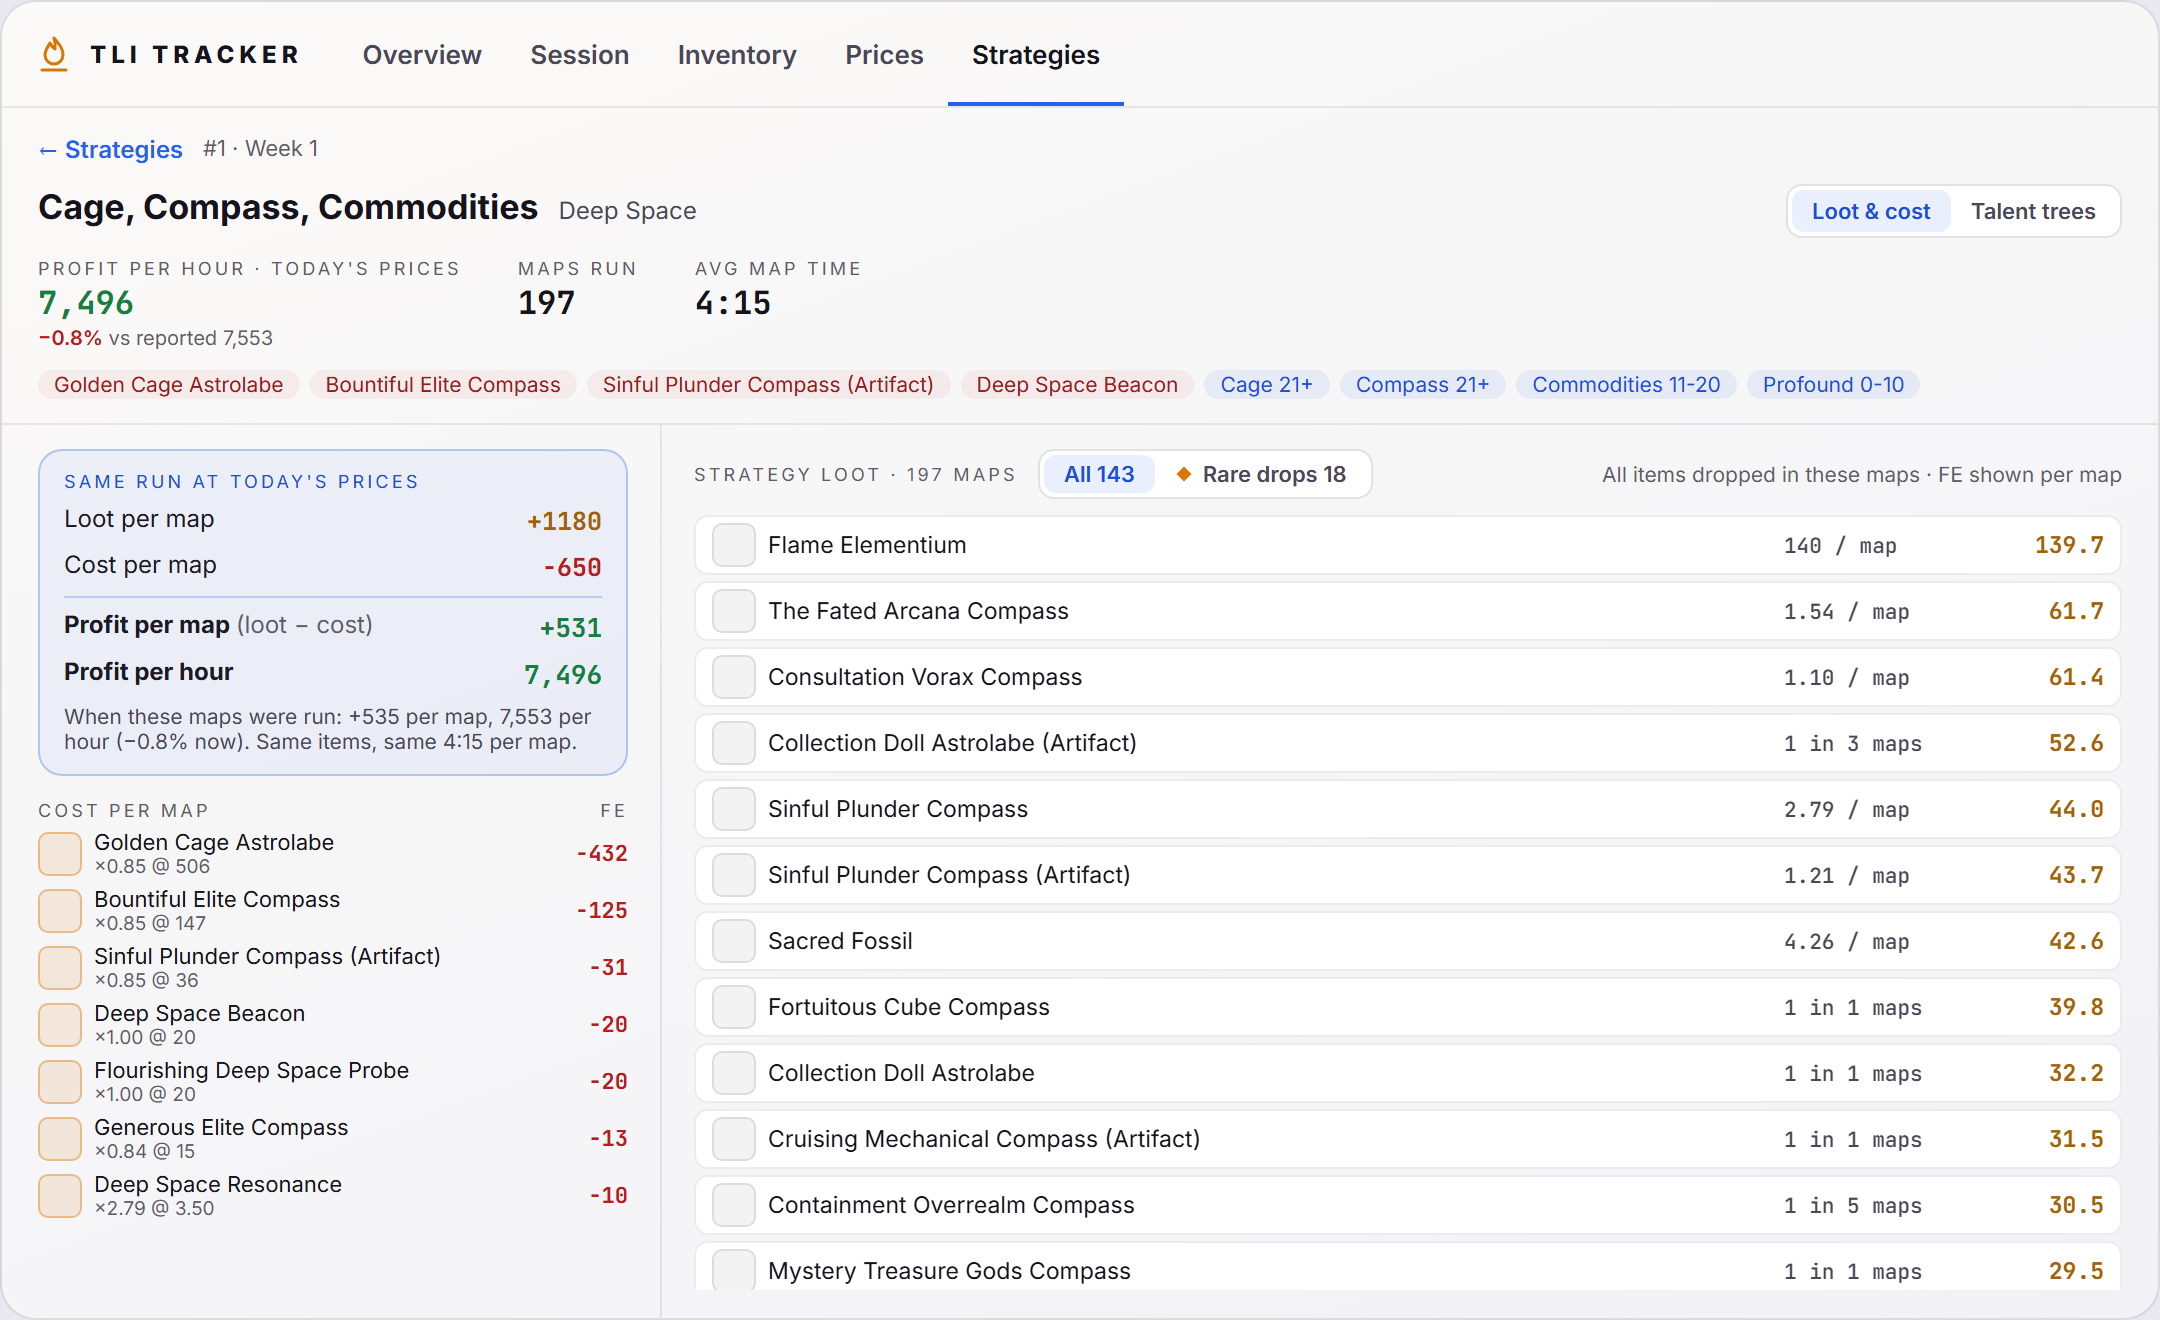
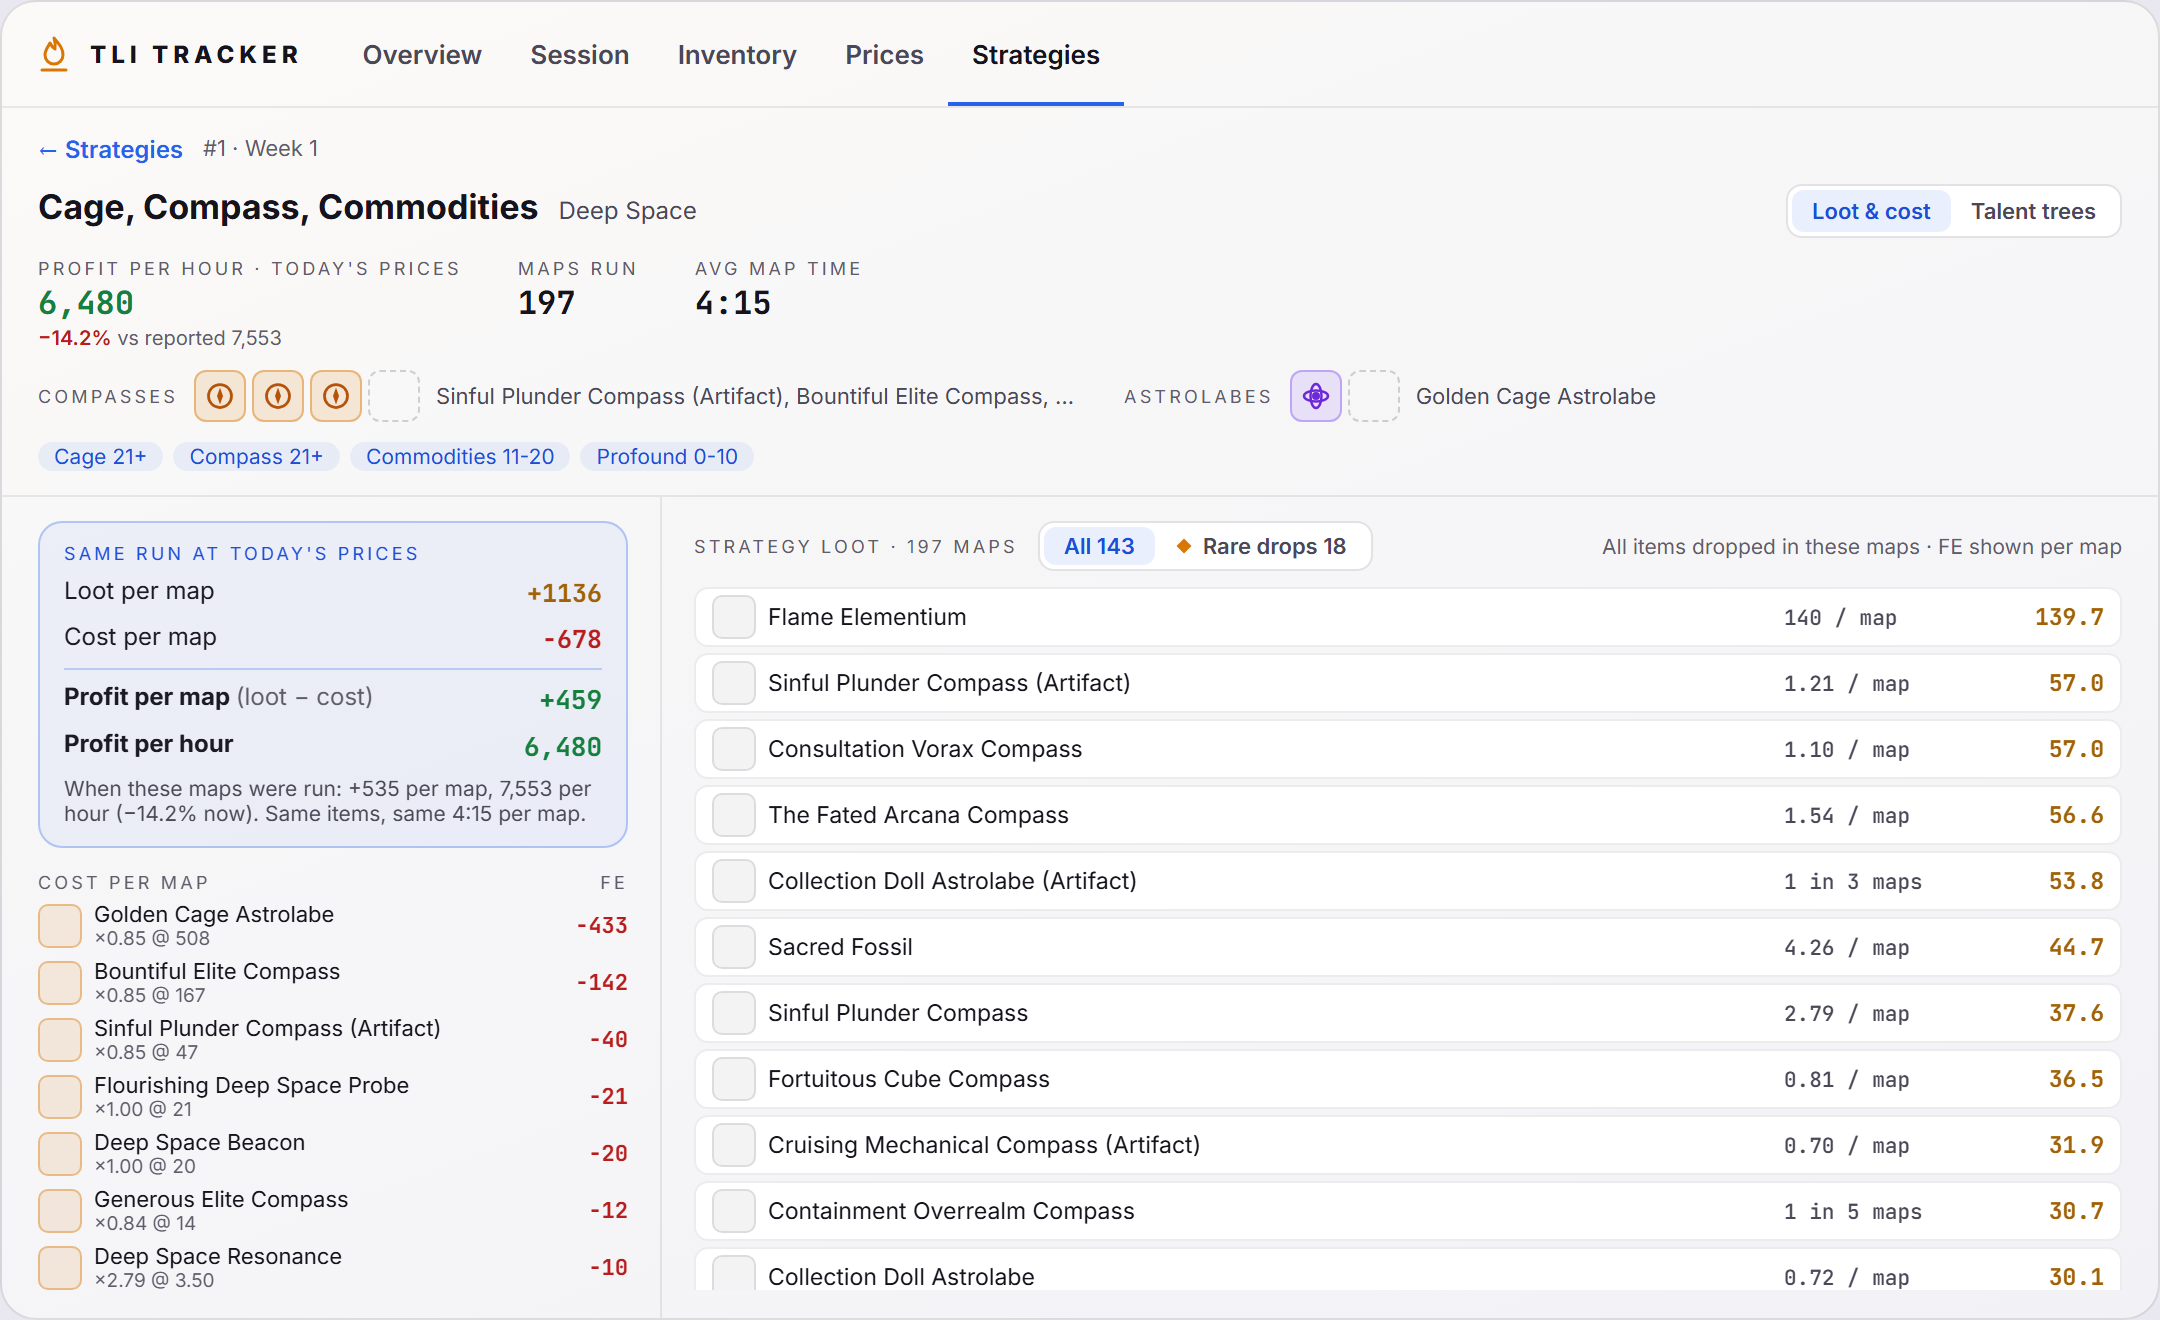
perf(dashboard): show compasses in strategy detail instead of the list
The ladder filled compass and astrolabe slots for every row, which cost
one detail request per strategy on each page (up to 10 more requests on
a server that already sheds load). The list now makes one request per
page; the strategy detail shows the compasses (4 slots) and astrolabes
(2 slots) used in at least half of its maps, with icons and names, in
place of the item tag chips.

Drop rates from 0.5 per map up read "0.80 / map" instead of "1 in 1 maps".
Design boards and doc images are updated to match.

diff --git a/src/components/dashboard/StrategiesTab.vue b/src/components/dashboard/StrategiesTab.vue
@@ -174,16 +174,6 @@
             <span class="meta">
               <span class="tag">{{ r.area }}</span>
               <span v-if="r.time && r.time !== r.area" class="tag time">{{ r.time }}</span>
-              <span class="slots" :aria-label="r.slotsLabel">
-                <span
-                  v-for="(s, i) in r.slots"
-                  :key="i"
-                  :class="['slot', s.kind, { empty: !s.id, gap: i === COMPASS_SLOTS }]"
-                  :title="s.name"
-                >
-                  <img v-if="s.id" :src="getIcon(s.id)" alt="" @error="($event.target as HTMLImageElement).style.visibility = 'hidden'" />
-                </span>
-              </span>
             </span>
           </span>
           <span class="rate">
@@ -211,7 +201,7 @@ import { fmtAgo, fmtDur, fmtValue } from './format';
 import StrategyDetail from './StrategyDetail.vue';
 import { PROFOUND, TREES } from './strategies/trees';
 import {
-  areaName, strategyApi, fetchDetail, itemInfo, itemKind, stageName, timeName, treeList, treeName,
+  areaName, strategyApi, itemInfo, itemKind, stageName, timeName, treeList, treeName,
   type FilterItem, type LeaderboardData, type Query, type StageOptions, type StrategyRow, type TagsData,
 } from './strategies/api';
 
@@ -270,7 +260,6 @@ const fetchedAt = ref(0);
 const now = ref(Date.now());
 const selected = ref<StrategyRow | null>(null);
 const itemNames = ref(new Map<string, string>());
-const kits = reactive(new Map<string, { id: string; name: string; kind: 'compass' | 'astrolabe' }[]>());
 
 const mechIn = computed(() => Object.keys(mechPicks).filter(k => mechPicks[k] === 'in'));
 
@@ -351,7 +340,6 @@ async function load() {
     stale.value = b.stale || t.stale;
     fetchedAt.value = Math.min(b.fetchedAt, t.fetchedAt);
     void nameCostItems(t.data);
-    void loadKits(visibleItems.value, stage.value);
   } catch (e) {
     if (gen !== generation) return;
     error.value = String(e);
@@ -387,35 +375,6 @@ async function nameCostItems(t: TagsData) {
   itemNames.value = m;
 }
 
-// Compasses and astrolabes a strategy uses in at least half of its maps.
-async function loadKits(items: StrategyRow[], st: string) {
-  for (const row of items) {
-    if (kits.has(`${st}:${row.key}`)) continue;
-    const d = await fetchDetail(st, row.key);
-    if (!d || st !== stage.value) continue;
-    const info = await itemInfo(d.items.cost.map(c => c.id));
-    const used = d.items.cost
-      .filter(c => c.quantity >= d.strategy.count / 2)
-      .sort((a, b) => b.quantity - a.quantity)
-      .map(c => {
-        const name = info.get(c.id)?.name || `Item ${c.id}`;
-        return { id: c.id, name, kind: itemKind(name) };
-      });
-    kits.set(`${st}:${row.key}`, used.filter((u): u is { id: string; name: string; kind: 'compass' | 'astrolabe' } => u.kind !== 'other'));
-  }
-}
-
-function slotsFor(key: string) {
-  const kit = kits.get(`${stage.value}:${key}`);
-  const fill = (kind: 'compass' | 'astrolabe', n: number) => {
-    const got = (kit ?? []).filter(k => k.kind === kind).slice(0, n);
-    return Array.from({ length: n }, (_, i) => got[i]
-      ? { ...got[i] }
-      : { id: '', name: kit ? `No ${kind}` : 'Loading…', kind });
-  };
-  return [...fill('compass', COMPASS_SLOTS), ...fill('astrolabe', ASTROLABE_SLOTS)];
-}
-
 const visibleItems = computed(() => {
   const items = board.value?.items ?? [];
   return localPages.value ? items.slice((page.value - 1) * PAGE_SIZE, page.value * PAGE_SIZE) : items;
@@ -425,8 +384,6 @@ const rows = computed(() => {
   const items = visibleItems.value;
   const top = Math.max(1, ...items.map(r => r.avgEfficiency));
   return items.map(r => {
-    const slots = slotsFor(r.key);
-    const used = slots.filter(s => s.id).map(s => s.name);
     return {
       raw: r,
       key: r.key,
@@ -434,8 +391,6 @@ const rows = computed(() => {
       title: treeList(r.talentLabel) || 'No main talent',
       area: areaName(r.mapLabel),
       time: timeName(r.timeLabel),
-      slots,
-      slotsLabel: used.length ? used.join(', ') : 'No compasses or astrolabes',
       perHour: fmtValue(r.avgEfficiency * 60),
       rateBar: Math.round((r.avgEfficiency / top) * 100) + '%',
       maps: r.count,
@@ -557,7 +512,6 @@ watch([stage, timemark, sort, minCount, () => JSON.stringify(picks), () => JSON.
 watch(page, () => {
   if (!localPages.value) return scheduleLoad();
   shownFor.value = query.value;
-  void loadKits(visibleItems.value, stage.value);
 });
 
 let ticker: ReturnType<typeof setInterval> | null = null;
@@ -638,13 +592,6 @@ onUnmounted(() => {
 .st-row .meta { display: flex; align-items: center; gap: 4px; flex-wrap: wrap; }
 .st-row .tag { font-size: 10px; padding: 0 6px; border-radius: 999px; background: rgba(217,119,6,0.12); color: var(--gold); }
 .st-row .tag.time { background: var(--chip); color: var(--muted); }
-.slots { display: flex; gap: 3px; margin-left: 4px; }
-.slot { width: 20px; height: 20px; box-sizing: border-box; border-radius: 5px; display: flex; align-items: center; justify-content: center; overflow: hidden; }
-.slot img { width: 16px; height: 16px; object-fit: contain; }
-.slot.compass { background: rgba(217,119,6,0.14); border: 1px solid rgba(217,119,6,0.45); }
-.slot.astrolabe { background: rgba(139,92,246,0.14); border: 1px solid rgba(139,92,246,0.45); }
-.slot.empty { background: transparent; border: 1px dashed var(--chip-border); }
-.slot.gap { margin-left: 5px; }
 .st-row .rate { display: flex; align-items: center; gap: 6px; }
 .st-row .track { flex: 1; height: 5px; border-radius: 3px; background: var(--chip-border); overflow: hidden; }
 .st-row .track span { display: block; height: 100%; background: var(--accent); }

diff --git a/src/components/dashboard/StrategyDetail.vue b/src/components/dashboard/StrategyDetail.vue
@@ -30,6 +30,17 @@
           <div class="mono val">{{ fmtDur(row.avgDuration / 1000) }}</div>
         </div>
       </div>
+      <div class="kit">
+        <div v-for="g in kitGroups" :key="g.kind" class="kit-group">
+          <span class="dash-label">{{ g.title }}</span>
+          <span class="slots" :aria-label="g.label">
+            <span v-for="(s, i) in g.slots" :key="i" :class="['slot', g.kind, { empty: !s.id }]" :title="s.name">
+              <img v-if="s.id" :src="getIcon(s.id)" alt="" @error="($event.target as HTMLImageElement).style.visibility = 'hidden'" />
+            </span>
+          </span>
+          <span class="kit-names">{{ g.label }}</span>
+        </div>
+      </div>
       <div class="tags">
         <span v-for="t in tagChips" :key="t.kind + t.label" :class="['tag', t.kind]">{{ t.label }}</span>
       </div>
@@ -106,7 +117,7 @@ import { getIcon } from '../../utils/assets';
 import { fmtDur, fmtFE, fmtPrice } from './format';
 import TalentTrees from './TalentTrees.vue';
 import {
-  areaName, fetchDetail, itemInfo, stageName, timeName, treeList, treeName,
+  areaName, fetchDetail, itemInfo, itemKind, stageName, timeName, treeList, treeName,
   type DetailData, type ItemInfo, type ItemQty, type StrategyRow,
 } from './strategies/api';
 
@@ -114,6 +125,8 @@ const props = defineProps<{ row: StrategyRow; stage: string }>();
 defineEmits(['back']);
 
 const LOOT_ROWS = 14;
+// A map takes up to 4 compasses and 2 astrolabes.
+const KIT_SLOTS = { compass: 4, astrolabe: 2 } as const;
 // A "rare" drop shows up in fewer than one of five maps but is still worth something per map.
 const RARE_SHARE = 0.2;
 const RARE_MIN_VALUE = 0.5;
@@ -158,7 +171,7 @@ function perMapRows(list: ItemQty[]) {
       qty: r.perMap >= 10 ? r.perMap.toFixed(0) : r.perMap.toFixed(2),
       price: r.price ? fmtPrice(r.price) : 'no price',
       value: r.total.toFixed(1),
-      rate: r.perMap < 1 ? `1 in ${Math.round(1 / r.perMap)} maps` : `${r.perMap >= 10 ? r.perMap.toFixed(0) : r.perMap.toFixed(2)} / map`,
+      rate: r.perMap < 0.5 ? `1 in ${Math.round(1 / r.perMap)} maps` : `${r.perMap >= 10 ? r.perMap.toFixed(0) : r.perMap.toFixed(2)} / map`,
     }));
 }
 
@@ -190,14 +203,34 @@ function fmtChange(pct: number): string {
   return `${pct >= 0 ? '+' : '−'}${Math.abs(pct).toFixed(1)}%`;
 }
 
+// Compasses and astrolabes used in at least half of the strategy's maps, most used first.
+const kitGroups = computed(() => {
+  const d = detail.value;
+  const used = (d?.items.cost ?? [])
+    .filter(c => c.quantity >= maps.value / 2)
+    .sort((a, b) => b.quantity - a.quantity)
+    .map(c => {
+      const name = info.value.get(c.id)?.name || `Item ${c.id}`;
+      return { id: c.id, name, kind: itemKind(name) };
+    });
+  return (['compass', 'astrolabe'] as const).map(kind => {
+    const got = used.filter(u => u.kind === kind).slice(0, KIT_SLOTS[kind]);
+    const slots = Array.from({ length: KIT_SLOTS[kind] }, (_, i) => got[i] ?? { id: '', name: d ? `No ${kind}` : 'Loading…' });
+    return {
+      kind,
+      title: kind === 'compass' ? 'Compasses' : 'Astrolabes',
+      slots,
+      label: !d ? 'Loading…' : got.length ? got.map(g => g.name).join(', ') : `No ${kind}s`,
+    };
+  });
+});
+
 const tagChips = computed(() => {
   const chips: { kind: string; label: string }[] = [];
   (detail.value?.tags ?? []).forEach(t => {
     if (t.type === 'mainTalentCluster') {
       const [tree, points] = t.key.split('|');
       chips.push({ kind: 'talent', label: `${treeName(tree)}${points ? ' ' + points : ''}` });
-    } else if (t.type === 'costItem') {
-      chips.push({ kind: 'cost', label: info.value.get(t.key)?.name || `Item ${t.key}` });
     }
   });
   return chips;
@@ -220,10 +253,18 @@ const tagChips = computed(() => {
 .strip .val.neg { color: var(--neg); }
 .strip .sub { font-size: 10px; color: var(--label); }
 .strip .sub .pos, .strip .sub .neg { font-weight: 600; }
+.kit { display: flex; gap: 24px; flex-wrap: wrap; }
+.kit-group { display: flex; align-items: center; gap: 8px; min-width: 0; }
+.slots { display: flex; gap: 3px; }
+.slot { width: 26px; height: 26px; box-sizing: border-box; border-radius: 6px; display: flex; align-items: center; justify-content: center; overflow: hidden; }
+.slot img { width: 22px; height: 22px; object-fit: contain; }
+.slot.compass { background: rgba(217,119,6,0.14); border: 1px solid rgba(217,119,6,0.45); }
+.slot.astrolabe { background: rgba(139,92,246,0.14); border: 1px solid rgba(139,92,246,0.45); }
+.slot.empty { background: transparent; border: 1px dashed var(--chip-border); }
+.kit-names { font-size: 11px; color: var(--muted); max-width: 320px; white-space: nowrap; overflow: hidden; text-overflow: ellipsis; }
 .tags { display: flex; gap: 5px; flex-wrap: wrap; }
 .tag { font-size: 10.5px; padding: 1px 8px; border-radius: 999px; background: var(--chip); color: var(--muted); }
 .tag.talent { background: var(--accent-bg); color: var(--accent-text); }
-.tag.cost { background: rgba(248,113,113,0.1); color: var(--neg); }
 
 .sd-trees { flex: 1; min-height: 0; padding: 14px 18px; }
 .sd-body { flex: 1; min-height: 0; display: grid; grid-template-columns: 330px minmax(0, 1fr); }

diff --git a/docs/features/dashboard-ui/strategies.md b/docs/features/dashboard-ui/strategies.md
@@ -22,13 +22,17 @@ Click a value to add it to the filters, click it again to remove it; the minus b
 ## The list
 
 - The heading names the timemark and how many strategies match, with the period on the right. Active filters show as chips under it and wrap onto more lines when needed; **Clear** removes them all.
-- Each row: the strategy's constellations, its area, the compasses (up to 4) and astrolabes (up to 2) it uses in at least half of its maps (empty slots when it uses fewer), profit per hour with a bar, maps run, FE per map and average map time.
-- 10 strategies per page. A line under the filters runs while results load.
+- Each row: the strategy's constellations, its area, profit per hour with a bar, maps run, FE per map and average map time.
+- 10 strategies per page, one request per page. A line under the filters runs while results load. The compasses and astrolabes a strategy uses are shown in its detail, so the list doesn't need a request per row.
 - If loading fails (the server is busy, rate limiting or unreachable), a notice says what couldn't load and why, the list keeps the previous results, the tab tries once more after a few seconds and offers **Retry**.
 
 ## Strategy detail
 
-Click a strategy to open it. The top row shows its **profit per hour at today's prices** (with the change against the rate reported when the maps were run), maps run and average map time, then the compasses, astrolabes and other items it uses and its talent point ranges per constellation.
+Click a strategy to open it. The header shows:
+
+- **Profit per hour at today's prices**, with the change against the rate reported when the maps were run, then maps run and average map time.
+- **Compasses** (up to 4 slots) and **Astrolabes** (up to 2): the ones used in at least half of the strategy's maps, most used first, with their icons and names. Unused slots stay empty; hover a slot for the item's name.
+- Its talent point ranges per constellation.
 
 ### Loot & cost
 
